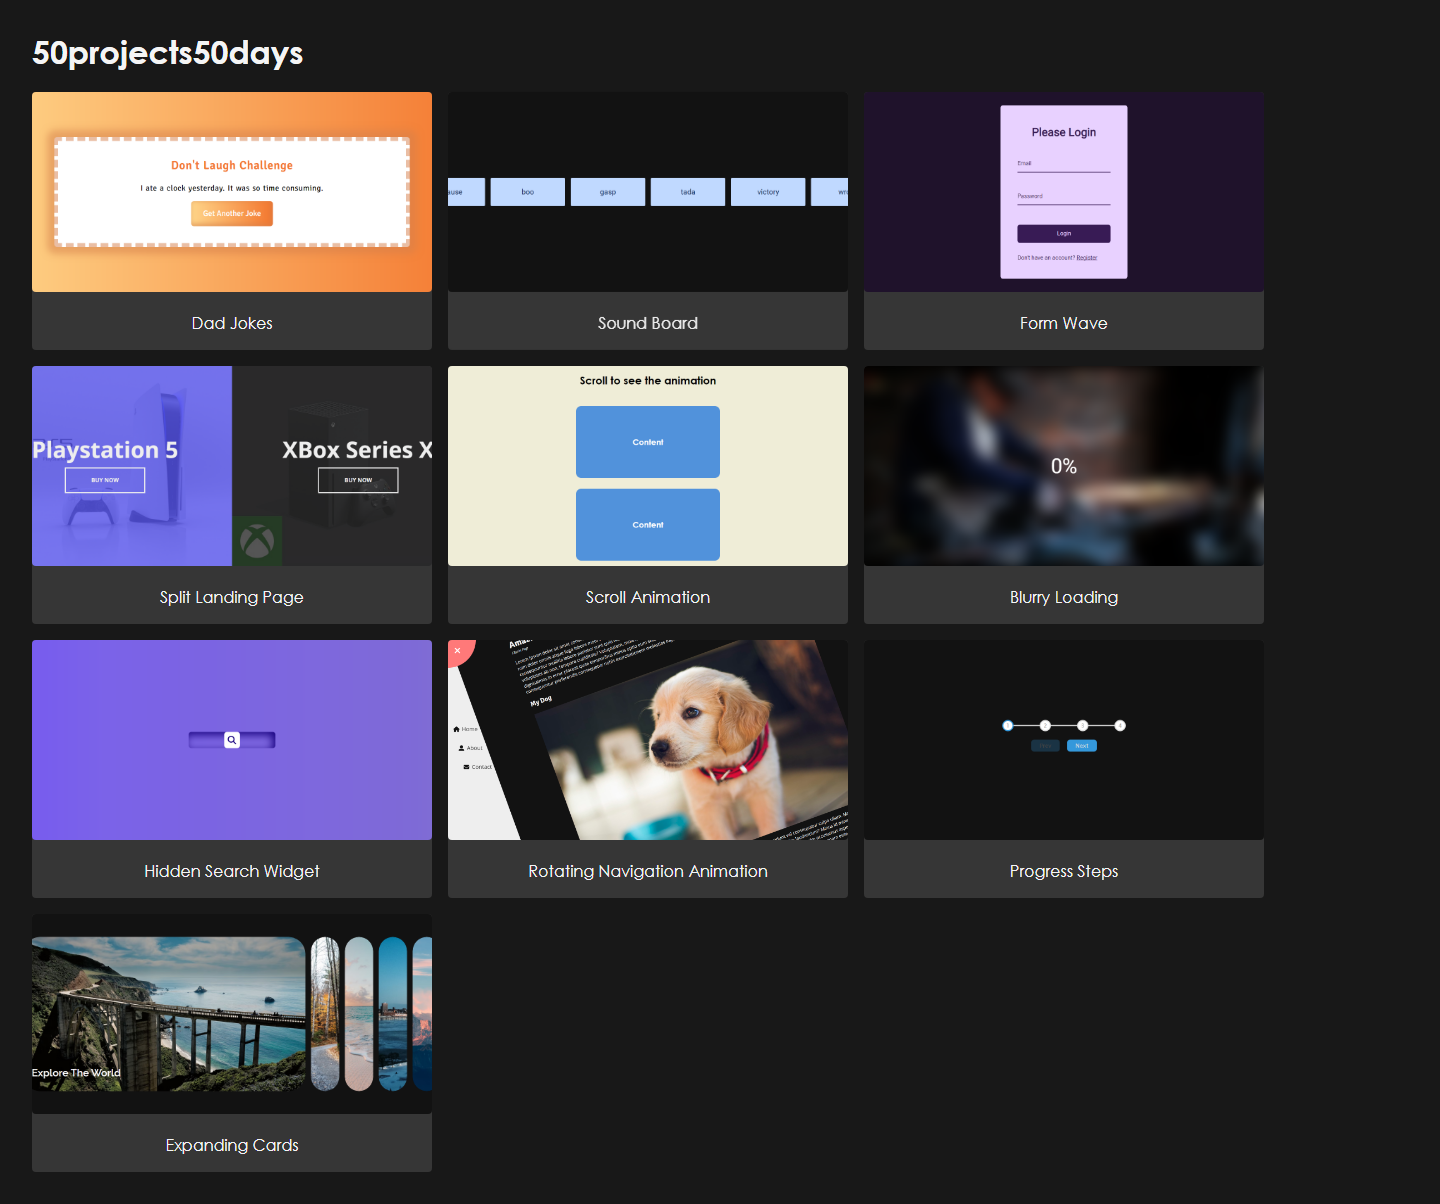
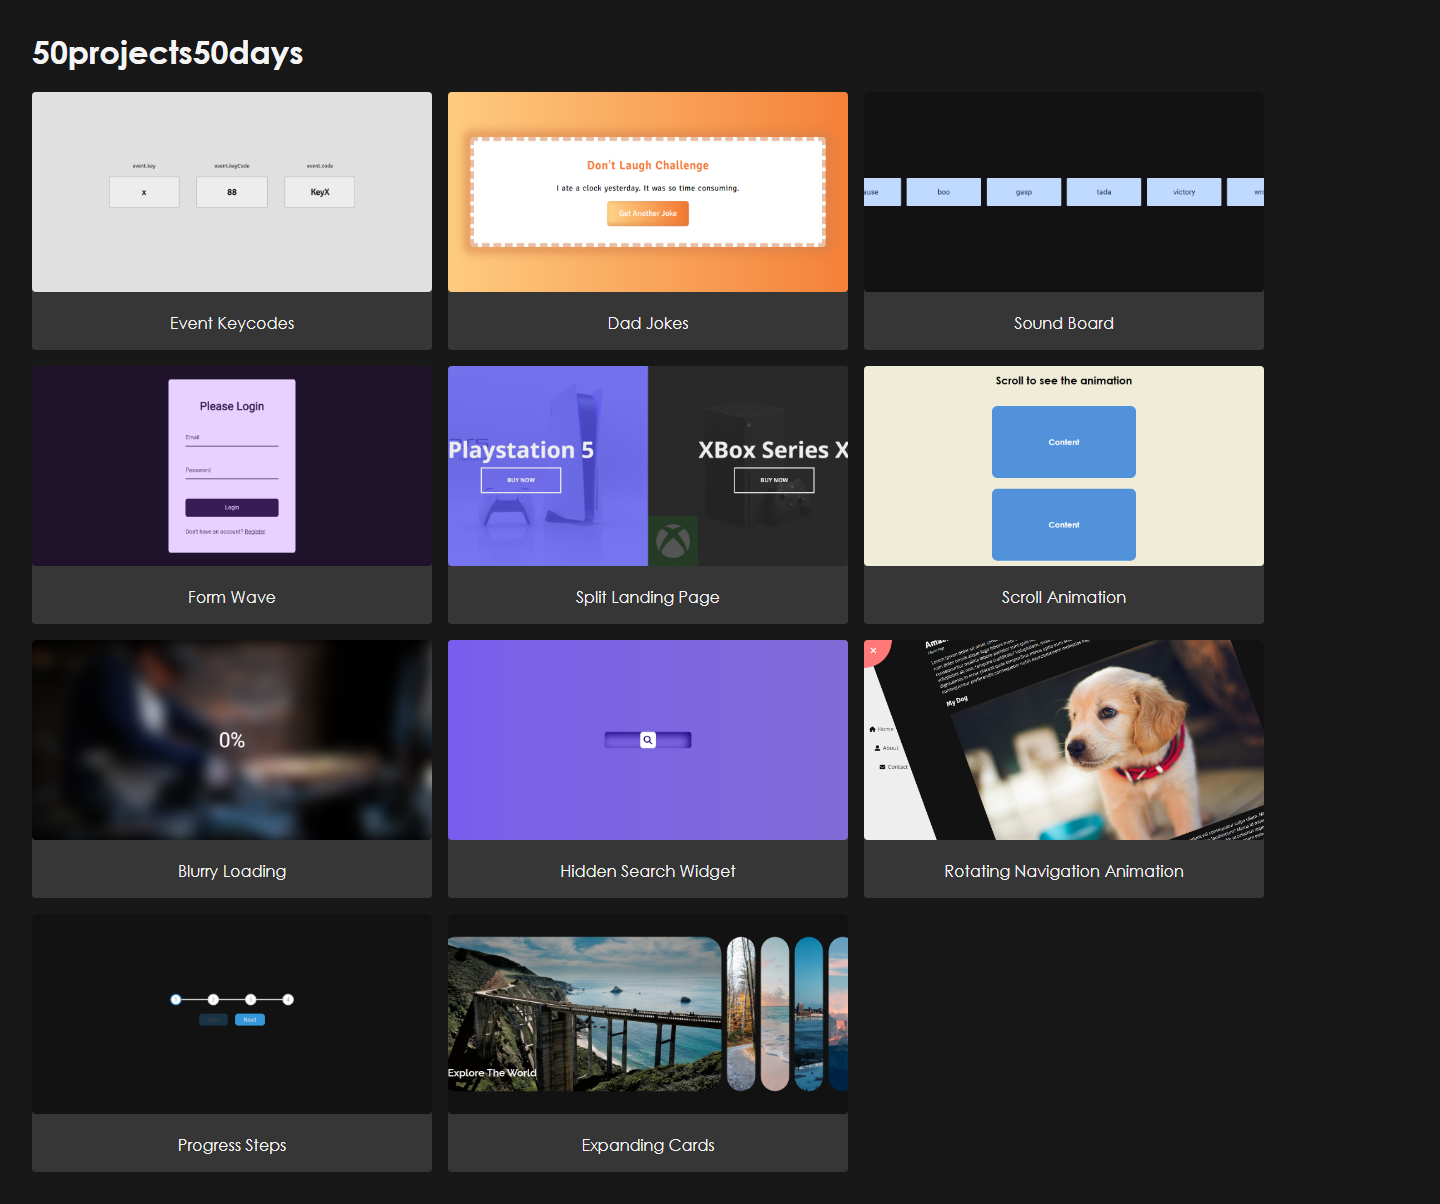
add event-keycodes

diff --git a/index.html b/index.html
@@ -95,6 +95,19 @@
             </figure> -->
             <figure>
                 <a
+                    href="https://rehberbey.github.io/50projects50days/event-keycodes/views/index.html"
+                    target="_blank"
+                    rel="noopener noreferrer"
+                >
+                    <img
+                        src="./event-keycodes/design/desktop.png"
+                        alt="Event Keycodes"
+                    />
+                    <figcaption>Event Keycodes</figcaption>
+                </a>
+            </figure>
+            <figure>
+                <a
                     href="https://rehberbey.github.io/50projects50days/dad-jokes/views/index.html"
                     target="_blank"
                     rel="noopener noreferrer"

diff --git a/.github/README.md b/.github/README.md
@@ -18,7 +18,7 @@ Bu çalışmalar, kendimi geliştirmeme ne kadar yarıyorsa; bir o kadar da beni
 | 08  | [Form Wave](https://github.com/rehberbey/50projects50days/tree/master/form-input-wave)                                    | [Live Demo](https://rehberbey.github.io/50projects50days/form-input-wave/views/index.html)              |
 | 09  | [Sound Board](https://github.com/rehberbey/50projects50days/tree/master/sound-board)                                      | [Live Demo](https://rehberbey.github.io/50projects50days/sound-board/views/index.html)                  |
 | 10  | [Dad Jokes](https://github.com/rehberbey/50projects50days/tree/master/dad-jokes)                                          | [Live Demo](https://rehberbey.github.io/50projects50days/dad-jokes/views/index.html)                    |
-| 11  | ❌ [Event Keycodes](https://github.com/rehberbey/50projects50days/tree/master/event-keycodes)                             | [Live Demo](https://rehberbey.github.io/50projects50days/event-keycodes/views/index.html)               |
+| 11  | [Event Keycodes](https://github.com/rehberbey/50projects50days/tree/master/event-keycodes)                                | [Live Demo](https://rehberbey.github.io/50projects50days/event-keycodes/views/index.html)               |
 | 12  | ❌ [Faq Collapse](https://github.com/rehberbey/50projects50days/tree/master/faq-collapse)                                 | [Live Demo](https://rehberbey.github.io/50projects50days/faq-collapse/views/index.html)                 |
 | 13  | ❌ [Random Choice Picker](https://github.com/rehberbey/50projects50days/tree/master/random-choice-picker)                 | [Live Demo](https://rehberbey.github.io/50projects50days/random-choice-picker/views/index.html)         |
 | 14  | ❌ [Animated Navigation](https://github.com/rehberbey/50projects50days/tree/master/animated-navigation)                   | [Live Demo](https://rehberbey.github.io/50projects50days/animated-navigation/views/index.html)          |
